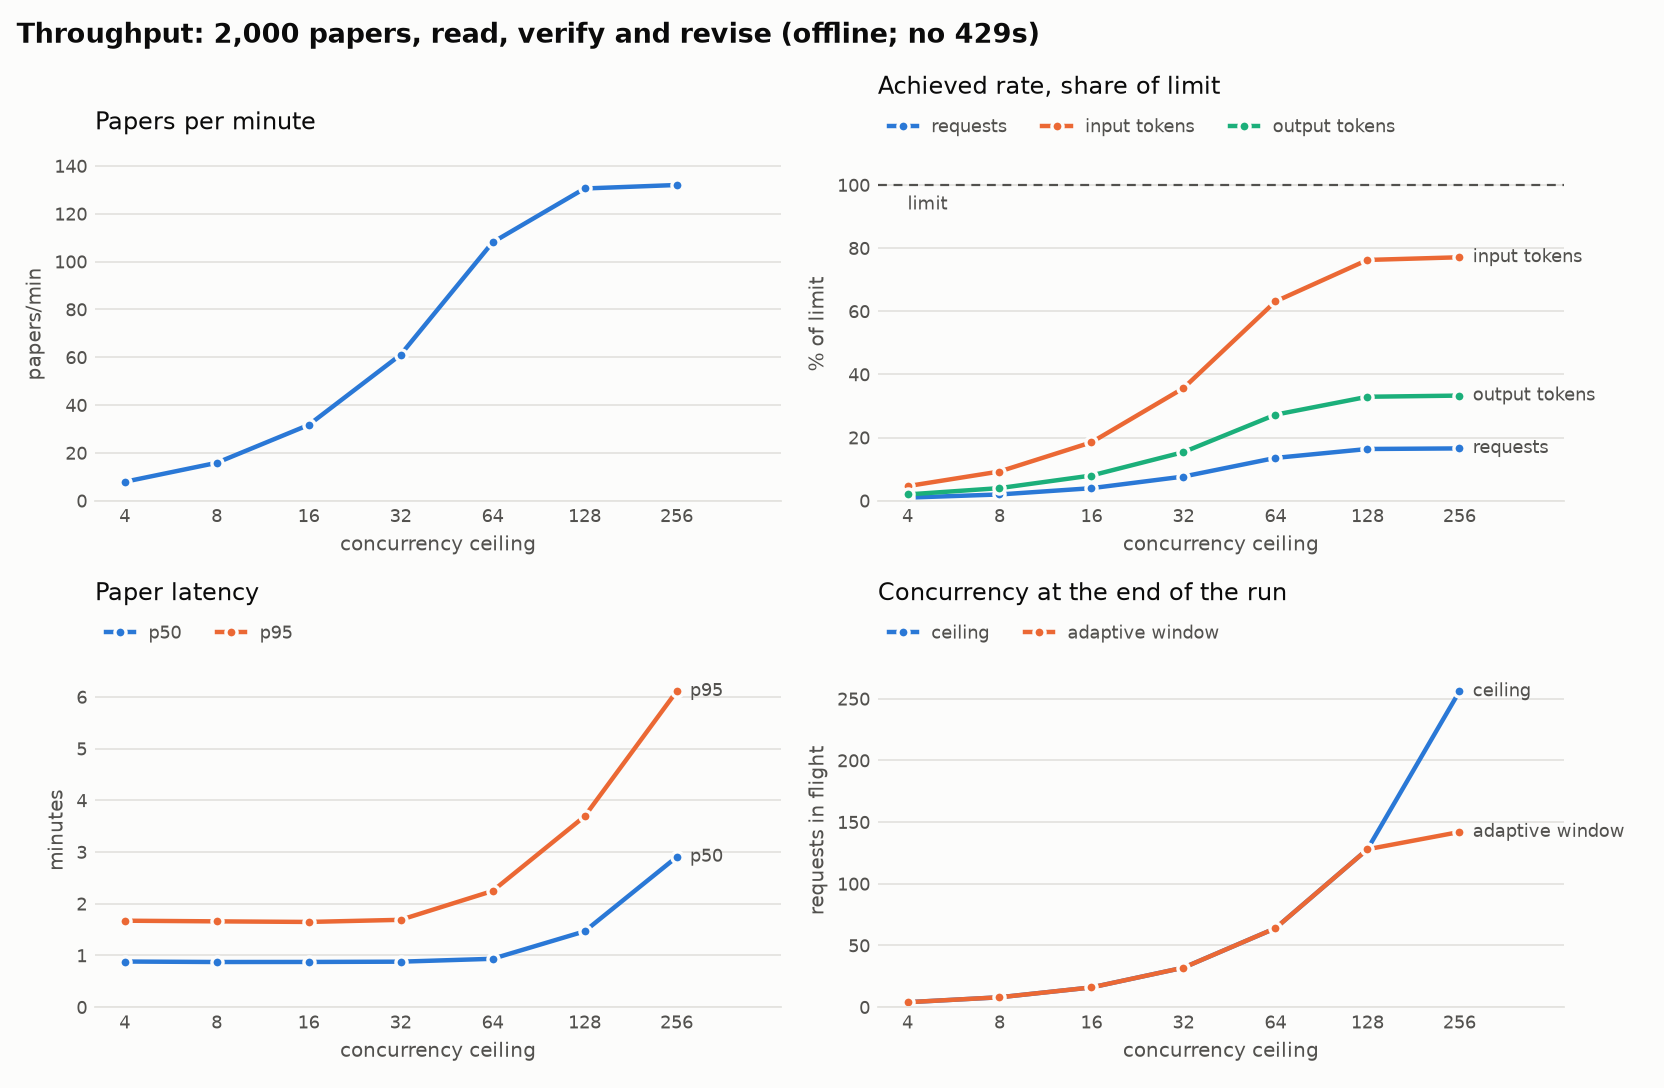
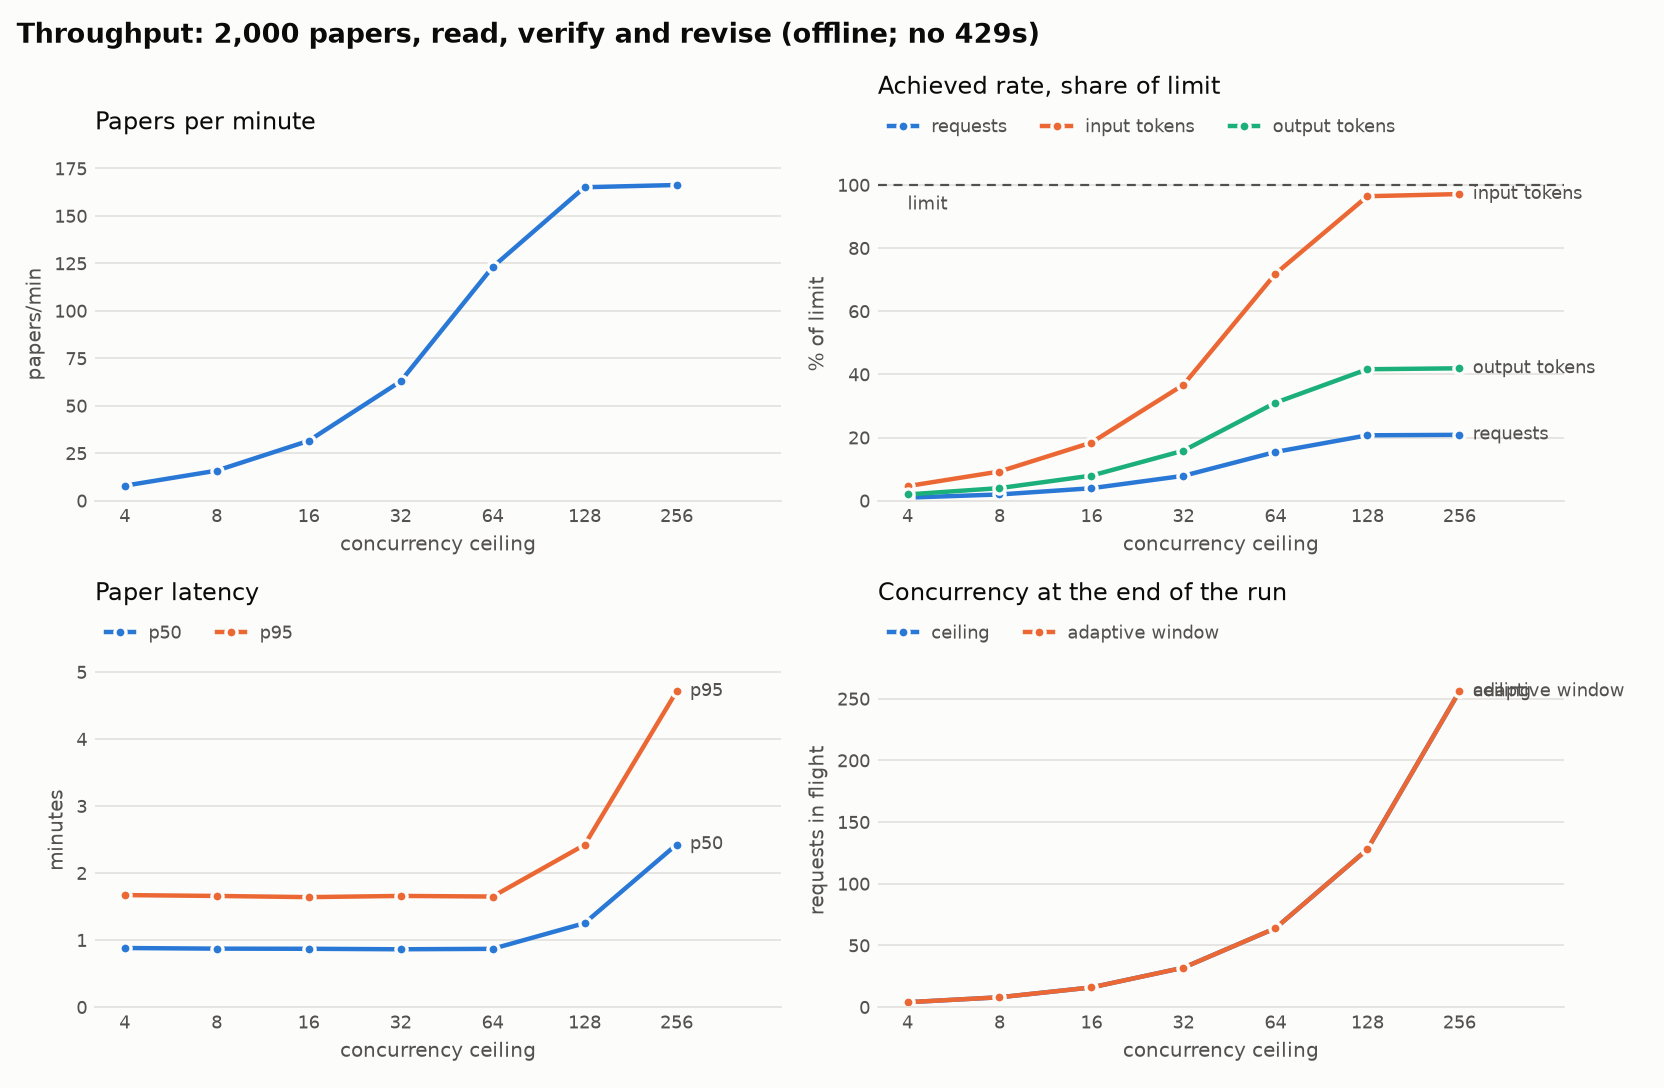
Re-run the throughput benchmark with slow start
Above a ceiling of 64 the additive ramp from 8 had been the bottleneck.
With slow start, 2,000 papers run at 165.1 papers/min at a ceiling of 128
and 166.3 at 256 (from 130.6 and 132.0), using 96-97% of the input-token
limit instead of 76-77%, with p95 paper latency down from 3.7 to 2.4 and
from 6.1 to 4.7 minutes, and still no 429.

diff --git a/docs/evaluation.md b/docs/evaluation.md
@@ -308,9 +308,10 @@ model at `claude-opus-5-5` prices.
   not count, as on the API.
 - *Latency:* 2 s to the first token plus 20 ms per output token (about 50
   tokens/s, thinking included), with log-normal jitter (sigma 0.35).
-- *Client:* the gateway's defaults (adaptive concurrency from 8, growing by
-  one per window of successes and halving on 429/529; token buckets learned
-  from the `anthropic-ratelimit-*` headers), with the concurrency ceiling set
+- *Client:* the gateway's defaults (adaptive concurrency from 8, doubling
+  per window of successes until the first 429/529, then growing by one per
+  window and halving on 429/529; token buckets learned from the
+  `anthropic-ratelimit-*` headers), with the concurrency ceiling set
   to the swept value and `2 x ceiling` papers in flight so the scheduler
   never starves the gateway. Each ceiling runs on a fresh store.
 
@@ -349,31 +350,47 @@ Apple M4 laptop; the simulated numbers are exactly reproducible.
 | ---: | ---: | ---: | ---: | ---: | ---: | ---: | ---: | ---: | ---: |
 | 4 | 7.9 | 40 | 1% | 5% | 2% | 0 | 4 | 0.9 | 1.7 |
 | 8 | 15.9 | 80 | 2% | 9% | 4% | 0 | 8 | 0.9 | 1.7 |
-| 16 | 31.7 | 159 | 4% | 19% | 8% | 0 | 16 | 0.9 | 1.6 |
-| 32 | 61.1 | 307 | 8% | 36% | 15% | 0 | 32 | 0.9 | 1.7 |
-| 64 | 108.1 | 543 | 14% | 63% | 27% | 0 | 64 | 0.9 | 2.2 |
-| 128 | 130.6 | 656 | 16% | 76% | 33% | 0 | 128 | 1.5 | 3.7 |
-| 256 | 132.0 | 663 | 17% | 77% | 33% | 0 | 142 | 2.9 | 6.1 |
+| 16 | 31.6 | 159 | 4% | 18% | 8% | 0 | 16 | 0.9 | 1.6 |
+| 32 | 62.9 | 316 | 8% | 37% | 16% | 0 | 32 | 0.9 | 1.7 |
+| 64 | 123.1 | 618 | 15% | 72% | 31% | 0 | 64 | 0.9 | 1.7 |
+| 128 | 165.1 | 829 | 21% | 96% | 42% | 0 | 128 | 1.3 | 2.4 |
+| 256 | 166.3 | 835 | 21% | 97% | 42% | 0 | 256 | 2.4 | 4.7 |
 
 - **Up to a ceiling of 64, throughput is proportional to concurrency:**
   about 1.9 papers per minute per slot, as Little's law predicts for about
   five requests per paper and a mean response time of about 6 s. Paper
   latency stays flat (p50 0.9 min, p95 1.7 min) because nothing queues.
-- **Above 64 it flattens at about 131 papers/min with every limit unused
-  and no 429s.** The bottleneck is the adaptive window's ramp, not the
-  server: the window starts at `limits.initial_concurrency` (8) and grows
-  by one per window of successes, so reaching 128 takes about 8,000
-  successful requests, most of this 10,000-request run, and at a ceiling of
-  256 the window ended the run at 142. Started at the ceiling instead
-  (`[limits] initial_concurrency = 256`), the same runs reach 165.8 papers/min
-  at 128 and 170.3 at 256, using 97% and 99% of the input-token limit, still
-  with no 429s: the client's input-token bucket then binds, as it should.
-  Doubling the input-token limit without that change only reached 145 and
-  149. A multiplicative start (doubling until the first overload or until a
-  bucket binds) would remove the ramp for runs of this size.
+- **From 128 the input-token limit binds: 165-166 papers/min at 96-97% of
+  the input tokens per minute, with no 429s.** The client's input-token
+  bucket holds the rate just under the server's, which is what admission
+  control is for; requests and output tokens have room to spare because
+  cache reads do not count toward the input limit and the offline replies
+  are short.
+- **The adaptive window's start used to be the bottleneck.** In the first
+  version of these runs the window grew by one slot per window of
+  successes from 8, so reaching 128 took about 8,000 of the run's 10,000
+  requests: throughput flattened at about 131 papers/min with 23% of the
+  input-token limit unused (and only 108 at a ceiling of 64), and at 256
+  the window ended the run at 142. The gateway now starts in slow start, as
+  TCP does, doubling the window per round trip until the first 429 or 529,
+  and only then grows it by one per window. Before and after, from the same
+  seeds:
+
+  | Ceiling | Papers/min, additive start | Papers/min, slow start | ITPM used | p95 paper (min) | Final window |
+  | ---: | ---: | ---: | ---: | ---: | ---: |
+  | 32 | 61.1 | 62.9 | 36% → 37% | 1.7 → 1.7 | 32 → 32 |
+  | 64 | 108.1 | 123.1 (+14%) | 63% → 72% | 2.2 → 1.7 | 64 → 64 |
+  | 128 | 130.6 | 165.1 (+26%) | 76% → 96% | 3.7 → 2.4 | 128 → 128 |
+  | 256 | 132.0 | 166.3 (+26%) | 77% → 97% | 6.1 → 4.7 | 142 → 256 |
+
+  That is within 0.4% (at 128) and 2.3% (at 256) of starting each run at its ceiling
+  (`[limits] initial_concurrency = 256`, measured before the change: 165.8
+  papers/min at 128 and 170.3 at 256), without having to know the right
+  ceiling in advance, and with no 429 at any ceiling.
 - **Latency grows once papers queue for admission:** with `2 x ceiling`
-  papers in flight, p95 paper latency rises from 1.7 minutes at 32 to 6.1
-  at 256, for 25% more throughput than at 64.
+  papers in flight, p95 paper latency rises from 1.7 minutes at 64 to 4.7
+  at 256, where the extra slots buy less than 1% more throughput than at
+  128: once a token limit binds, more concurrency only lengthens the queue.
 - **Admission control holds the limits exactly.** No ceiling produced a
   429. With the request limit lowered to 60 per minute and 64 slots, the
   gateway learns the limit from the response headers and stays under it

diff --git a/results/bench-throughput.md b/results/bench-throughput.md
@@ -6,8 +6,8 @@ Simulated limits: 4,000 requests, 2,000,000 input tokens and 400,000 output toke
 | ---: | ---: | ---: | ---: | ---: | ---: | ---: | ---: | ---: | ---: | ---: | ---: |
 | 4 | 7.9 | 40 | 1% | 5% | 2% | 0.00% | 4 | 0.9 | 1.7 | 252.4 | 28 |
 | 8 | 15.9 | 80 | 2% | 9% | 4% | 0.00% | 8 | 0.9 | 1.7 | 126.1 | 29 |
-| 16 | 31.7 | 159 | 4% | 19% | 8% | 0.00% | 16 | 0.9 | 1.6 | 63.1 | 28 |
-| 32 | 61.1 | 307 | 8% | 36% | 15% | 0.00% | 32 | 0.9 | 1.7 | 32.8 | 28 |
-| 64 | 108.1 | 543 | 14% | 63% | 27% | 0.00% | 64 | 0.9 | 2.2 | 18.5 | 29 |
-| 128 | 130.6 | 656 | 16% | 76% | 33% | 0.00% | 128 | 1.5 | 3.7 | 15.3 | 30 |
-| 256 | 132.0 | 663 | 17% | 77% | 33% | 0.00% | 142 | 2.9 | 6.1 | 15.1 | 32 |
+| 16 | 31.6 | 159 | 4% | 18% | 8% | 0.00% | 16 | 0.9 | 1.6 | 63.4 | 29 |
+| 32 | 62.9 | 316 | 8% | 37% | 16% | 0.00% | 32 | 0.9 | 1.7 | 31.8 | 29 |
+| 64 | 123.1 | 618 | 15% | 72% | 31% | 0.00% | 64 | 0.9 | 1.7 | 16.2 | 29 |
+| 128 | 165.1 | 829 | 21% | 96% | 42% | 0.00% | 128 | 1.3 | 2.4 | 12.1 | 30 |
+| 256 | 166.3 | 835 | 21% | 97% | 42% | 0.00% | 256 | 2.4 | 4.7 | 12.0 | 30 |
